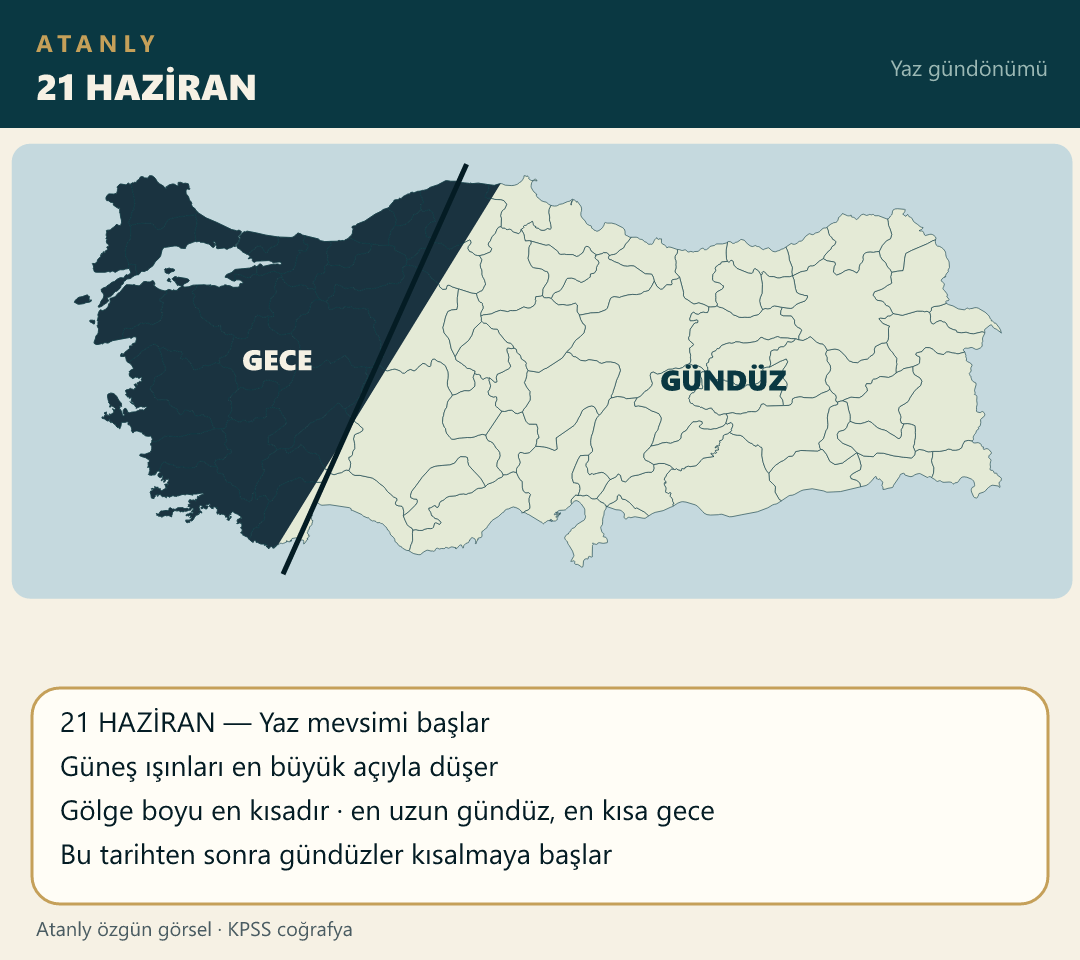
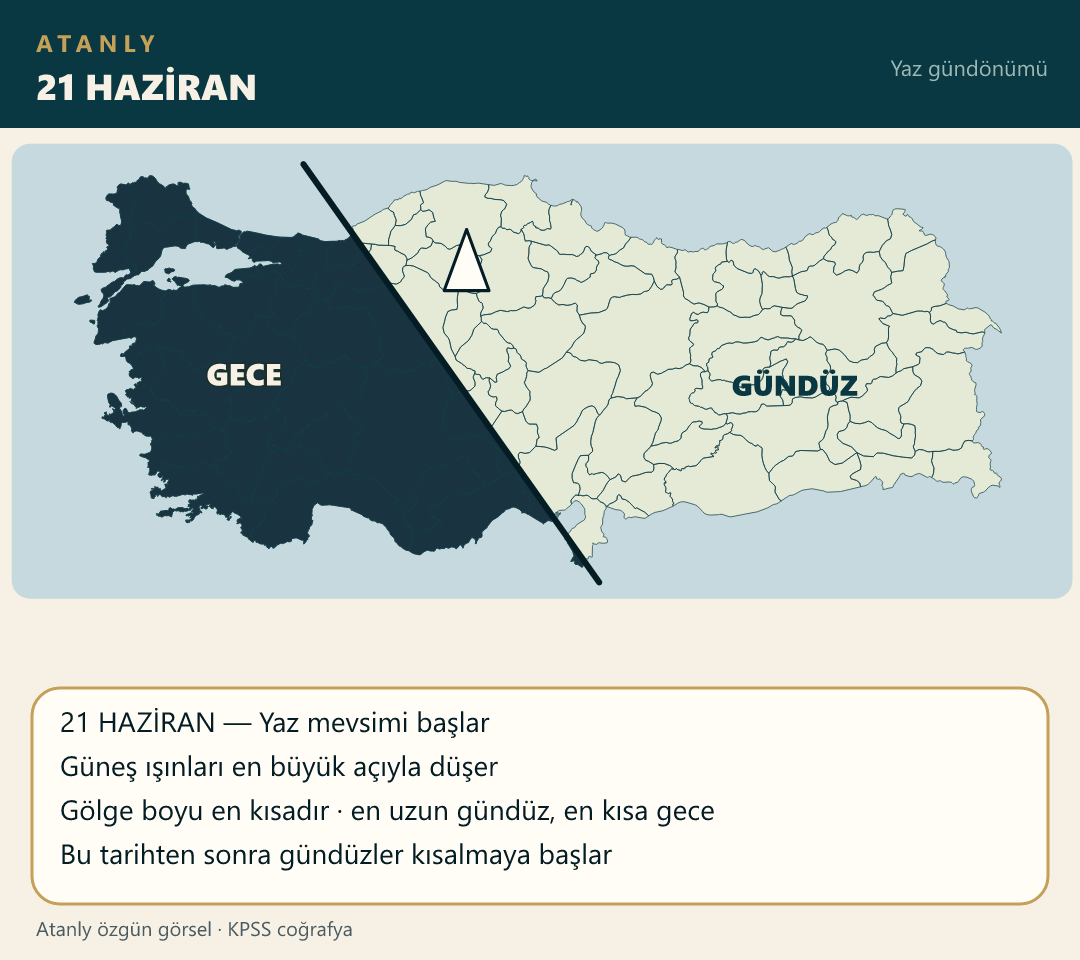
Tilt the June 21 terminator so northern Turkey has more daylight.

diff --git a/scripts/build-atanly-maps.js b/scripts/build-atanly-maps.js
@@ -858,14 +858,14 @@ function main() {
 
     if (!(wantFile("21haziran") || wantFile("21aralik"))) { /* skip solstice */ } else {
 
-    // 21 Haziran
-    var term = '<line x1="430" y1="8" x2="250" y2="410" stroke="' + C.ink + '" stroke-width="5"/>';
+    // 21 Haziran — aydınlık kuzeyde daha batıya uzanır (çizgi KB→GD)
     var juneExtra = landPaths(provs) +
-        '<clipPath id="nightJ"><polygon points="0,0 480,0 220,422 0,422"/></clipPath>' +
+        '<clipPath id="nightJ"><polygon points="-20,-20 270,-20 270,8 560,418 -20,430"/></clipPath>' +
         '<g clip-path="url(#nightJ)">' + landPaths(provs).replace(/fill="#E4EAD6"/g, 'fill="' + C.night + '"') + "</g>" +
-        term +
-        '<text x="210" y="210" font-size="28" font-weight="800" fill="#F6F1E4" font-family="Segoe UI, sans-serif">GECE</text>' +
-        '<text x="620" y="230" font-size="28" font-weight="800" fill="' + C.navy + '" font-family="Segoe UI, sans-serif">GÜNDÜZ</text>';
+        '<line x1="270" y1="8" x2="560" y2="418" stroke="' + C.ink + '" stroke-width="6" stroke-linecap="round"/>' +
+        '<polygon points="430,72 452,132 408,132" fill="#FFFDF6" stroke="' + C.ink + '" stroke-width="3" stroke-linejoin="round"/>' +
+        '<text x="175" y="225" font-size="30" font-weight="800" fill="#F6F1E4" stroke="#1A2E2B" stroke-width="3" paint-order="stroke" font-family="Segoe UI, sans-serif">GECE</text>' +
+        '<text x="690" y="235" font-size="28" font-weight="800" fill="' + C.navy + '" font-family="Segoe UI, sans-serif">GÜNDÜZ</text>';
     var juneFacts = wrapFacts([
         "21 HAZİRAN — Yaz mevsimi başlar",
         "Güneş ışınları en büyük açıyla düşer",

diff --git a/notlar/cografya-1-not.js b/notlar/cografya-1-not.js
@@ -234,7 +234,7 @@ window.cografya_1_notlari = [
             </div>
             <!-- 🗺 HARİTA / RESİM ALANI -->
             <div class="mt-4 overflow-hidden rounded-xl border border-blue-200 dark:border-blue-700/50 bg-white dark:bg-slate-800 p-2">
-                <img src="./src/img/21 haziran.png?v=9" alt="21 Haziran Haritası" class="w-full h-auto rounded-lg object-contain" loading="lazy">
+                <img src="./src/img/21 haziran.png?v=10" alt="21 Haziran Haritası" class="w-full h-auto rounded-lg object-contain" loading="lazy">
             </div>
         </div>
     </div>

diff --git a/index.html b/index.html
@@ -99,7 +99,7 @@
     <script src="notlar/tarih-14-not.js?v=3"></script>
     <script src="notlar/tarih-15-not.js?v=3"></script>
     <script src="notlar/tarih-16-not.js?v=1"></script>
-    <script src="notlar/cografya-1-not.js?v=9"></script>
+    <script src="notlar/cografya-1-not.js?v=10"></script>
     <script src="notlar/cografya-2-not.js?v=15"></script>
     <script src="notlar/cografya-3-not.js?v=15"></script>
     <script src="notlar/cografya-4-not.js?v=9"></script>
